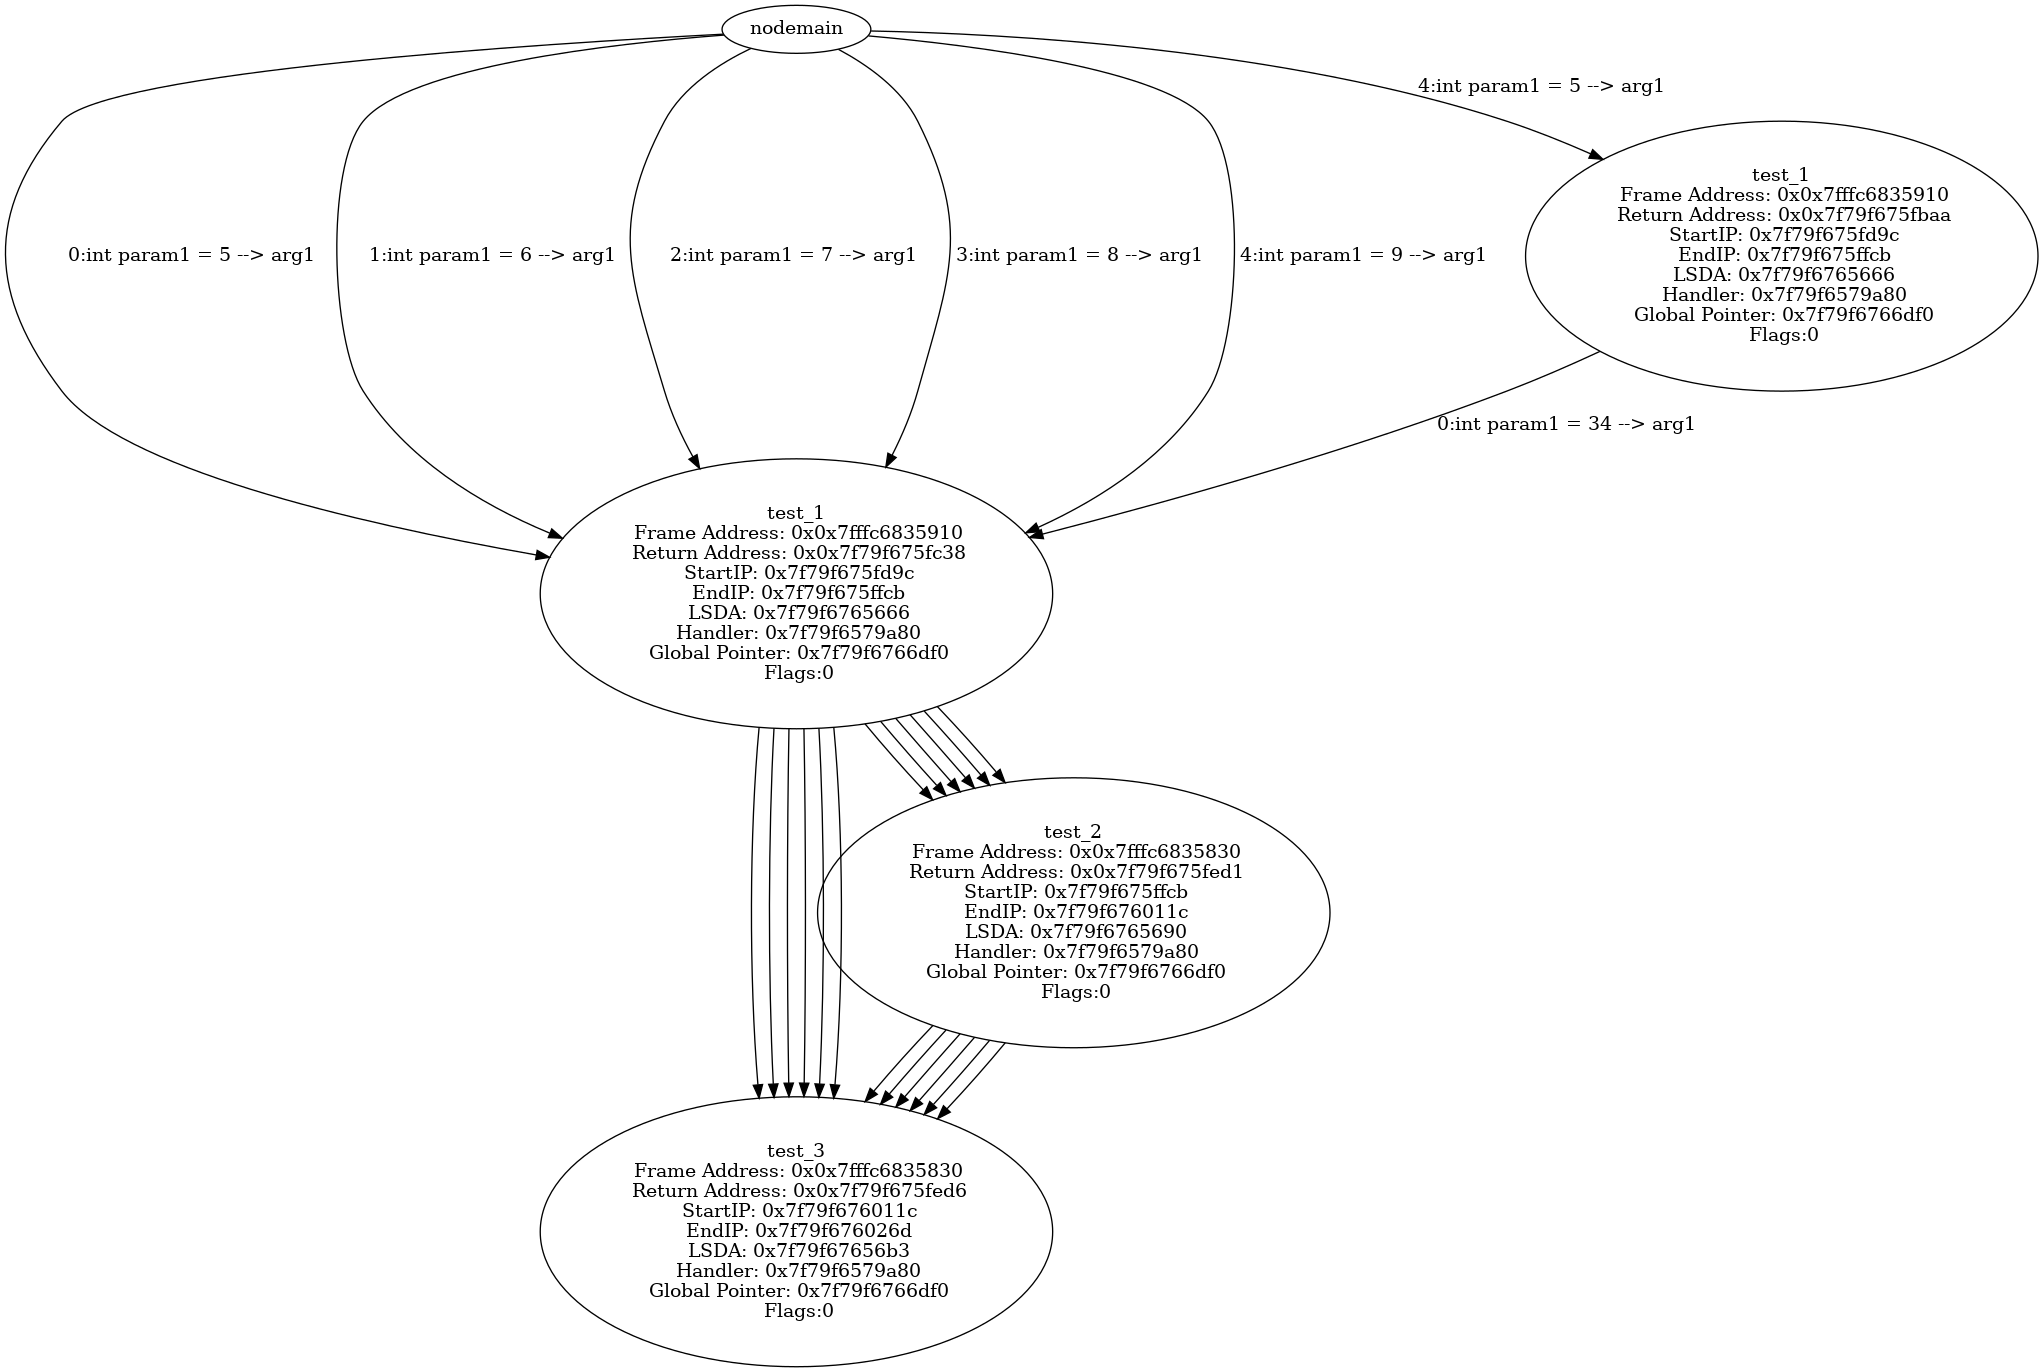
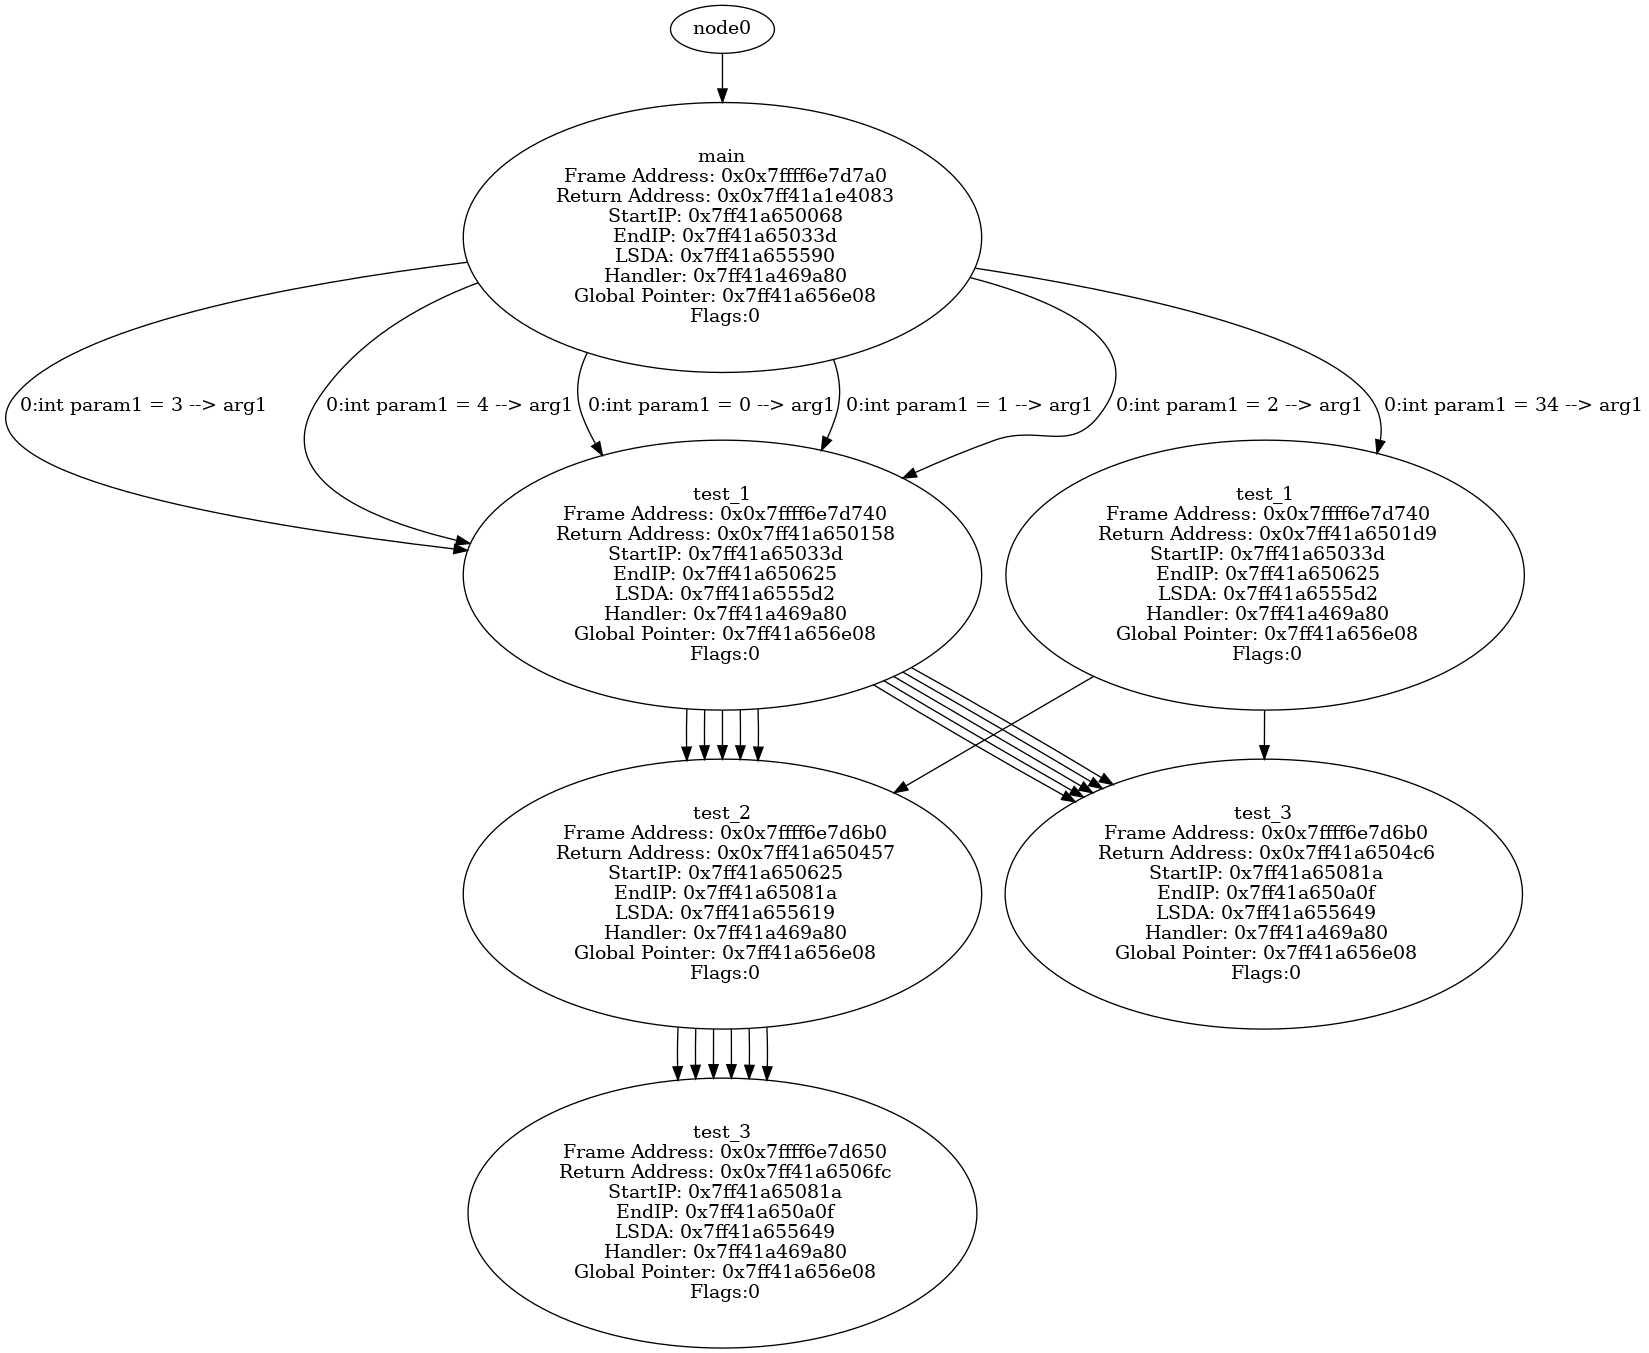
tree properly generating

diff --git a/main.cpp b/main.cpp
@@ -14,25 +14,17 @@ Backtrace* bt = new Backtrace();
 
 int main() {
 
-    unw_getcontext(&context);
-    unw_init_local(&cursor, &context);
-
-    unw_word_t offset, pc;
-    unw_get_reg(&cursor, UNW_REG_IP, &pc);
-    
     bt->start_func_call("main", nullptr);
-    int arg1 = 5;
+
+
+    bt->start_trace_call("test_1", "arg1", nullptr);
     for(int i = 0; i < 5; i++) {
-        bt->start_trace_call(1, "test_1", "arg1", nullptr);
-        test_1(arg1);
-        arg1++;
-        bt->end_trace_call();
+        test_1(i);
     }
+    bt->end_trace_call();
 
 
-
-
-    bt->start_trace_call(2, "test_1", "arg1", nullptr);
+    bt->start_trace_call("test_1", "i", nullptr);
     test_1(34);
     bt->end_trace_call();
 
@@ -49,17 +41,19 @@ int main() {
 void test_1(int param1) {
     
     //can use (void*) but preferably convert all parameters to std::string
-    std::cout << param1 << std::endl;
-    bt->start_func_call("test_1", "int", "param1", std::to_string(param1).c_str());
+    bt->start_func_call("test_1", "int", "param1", std::to_string(param1).c_str(), nullptr);
 
-    unw_proc_info_t proc_info;
-    unw_get_proc_info(&cursor, &proc_info);
+    bt->start_trace_call("test_2", nullptr);
 
-    std::cout << proc_info.start_ip << std::endl;
-    
     test_2();
-    
+
+    bt->end_trace_call();
+
+
+    bt->start_trace_call("test_3", nullptr);
     test_3();
+
+    bt->end_trace_call();
 
     bt->end_func_call("test_1");
 }
@@ -68,7 +62,10 @@ void test_2() {
 
     bt->start_func_call("test_2", nullptr);
 
+    bt->start_trace_call("test_3", nullptr);
     test_3();
+
+    bt->end_trace_call();
 
     bt->end_func_call("test_2");
 }
@@ -77,7 +74,11 @@ void test_3() {
 
     bt->start_func_call("test_3", nullptr);
 
+    bt->start_trace_call("test_4", nullptr);
+
     test_4_contextTree();
+
+    bt->end_trace_call();
 
     bt->end_func_call("test_3");
 }

diff --git a/ContextNode.cpp b/ContextNode.cpp
@@ -22,8 +22,6 @@ std::vector<std::string> arguments;
 
 int callCount;
 
-std::string uniqueID;
-
 
 ContextNode::ContextNode(void* frame_addr, 
                         void* return_addr, 
@@ -48,7 +46,6 @@ ContextNode::ContextNode(void* frame_addr,
     this->parameters = parameters;
     this->arguments = {};
     callCount = 0;
-    uniqueID = "";
  
 }
 
@@ -65,8 +62,11 @@ void ContextNode::setParentNode(ContextNode* node){
 }
 
 void ContextNode::setArguments(std::vector<std::string> args) {
-    arguments = args;
+    for(auto arg : args) {
+        arguments.push_back(arg);
+    }
 }
+
 
 // getters
 
@@ -132,12 +132,4 @@ void ContextNode::setCallCount(int val) {
 
 int ContextNode::getCallCount(){ 
     return callCount;
-}
-
-std::string ContextNode::getUniqueID(){
-    return uniqueID;
-}
-
-void ContextNode::setUniqueID(std::string id) {
-    uniqueID = id;
 }

diff --git a/ContextNode.h b/ContextNode.h
@@ -26,8 +26,6 @@ private:
     std::vector<std::string> arguments;
 
     int callCount;
-
-    std::string uniqueID;
     
 
 public:
@@ -72,10 +70,6 @@ public:
     unw_word_t getHandler() const;
     unw_word_t getGlobalPointer() const;
     unw_word_t getFlags() const;
-
-    std::string getUniqueID();
-
-    void setUniqueID(std::string id);
     
 };
 

diff --git a/Backtrace.h b/Backtrace.h
@@ -28,7 +28,7 @@ public:
 
     void start_func_call(std::string funcName, ...);
 
-    void start_trace_call(int ID, std::string funcName, ...);
+    void start_trace_call(std::string funcName, ...);
 
     void end_trace_call();
 
